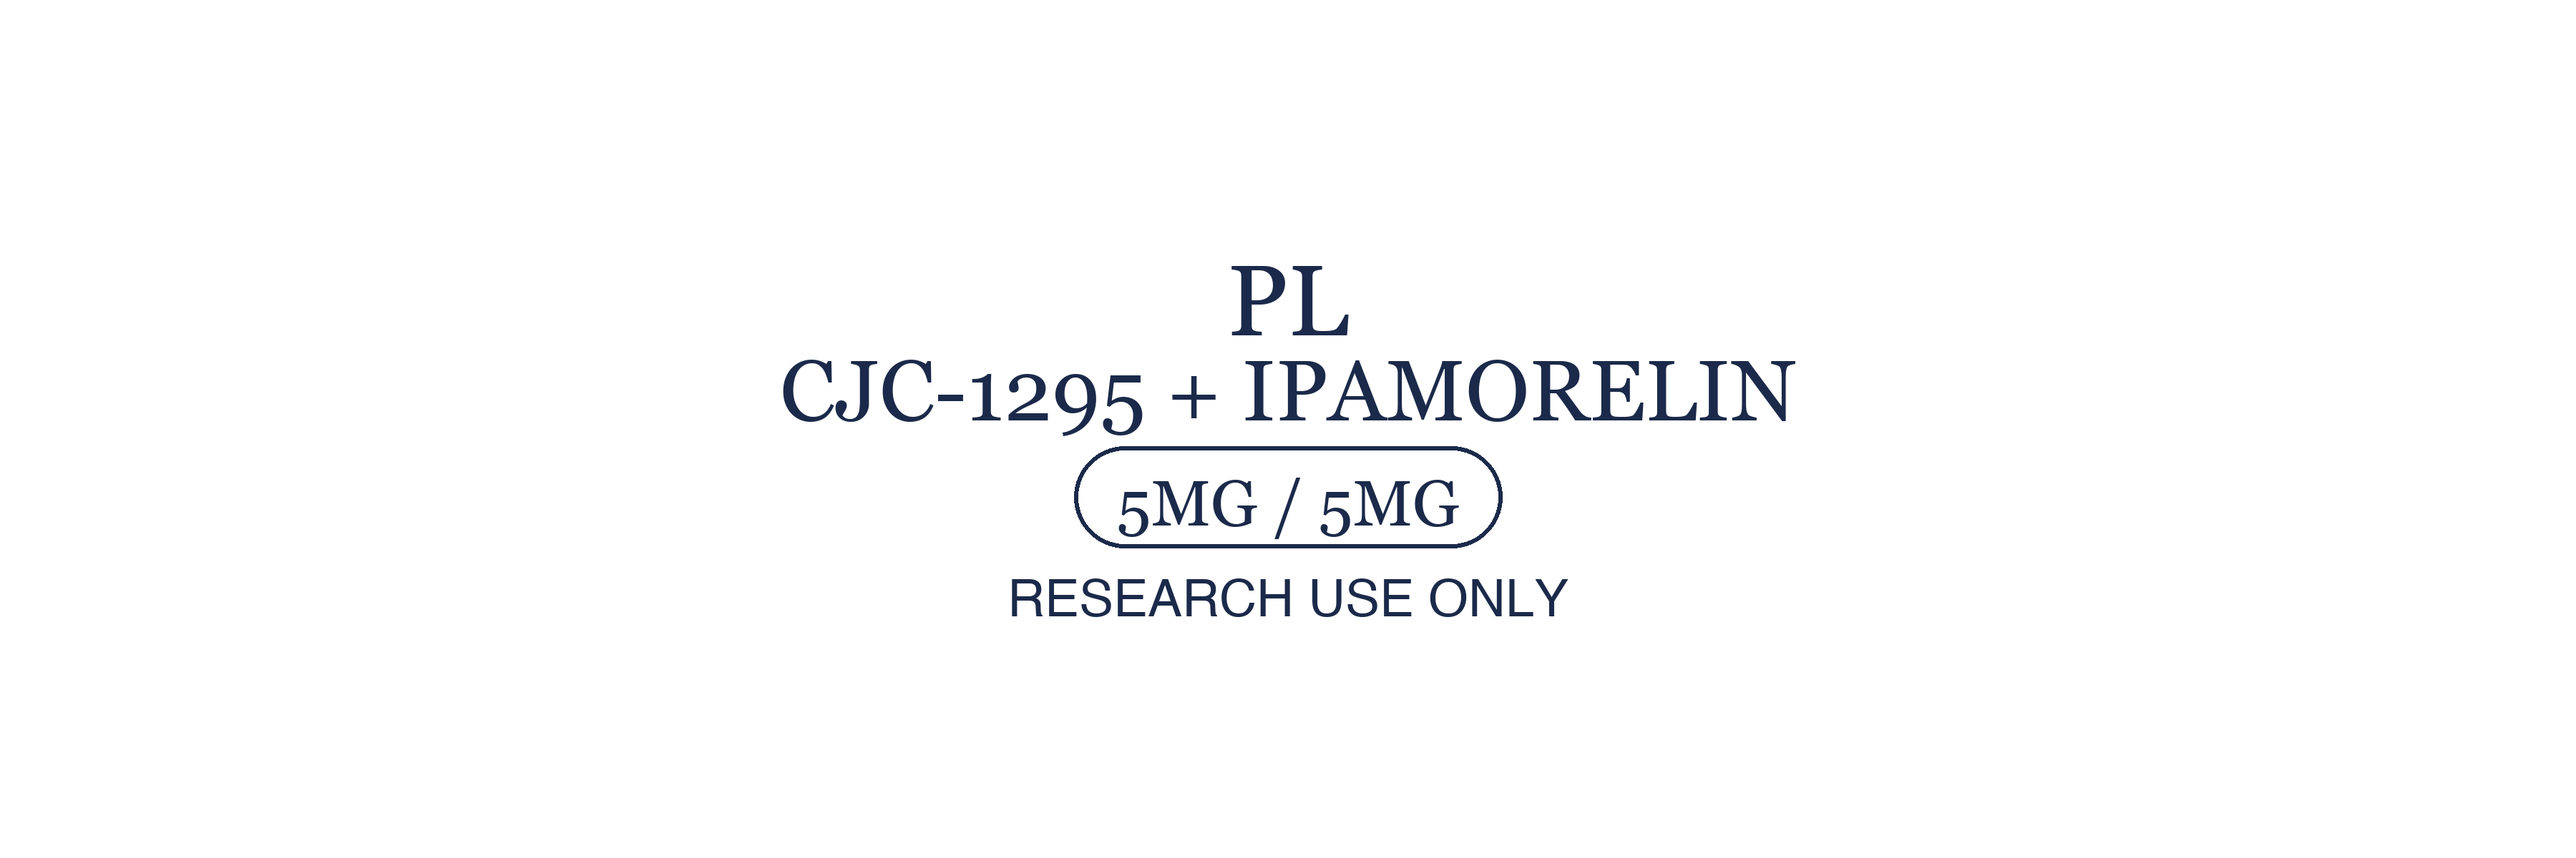
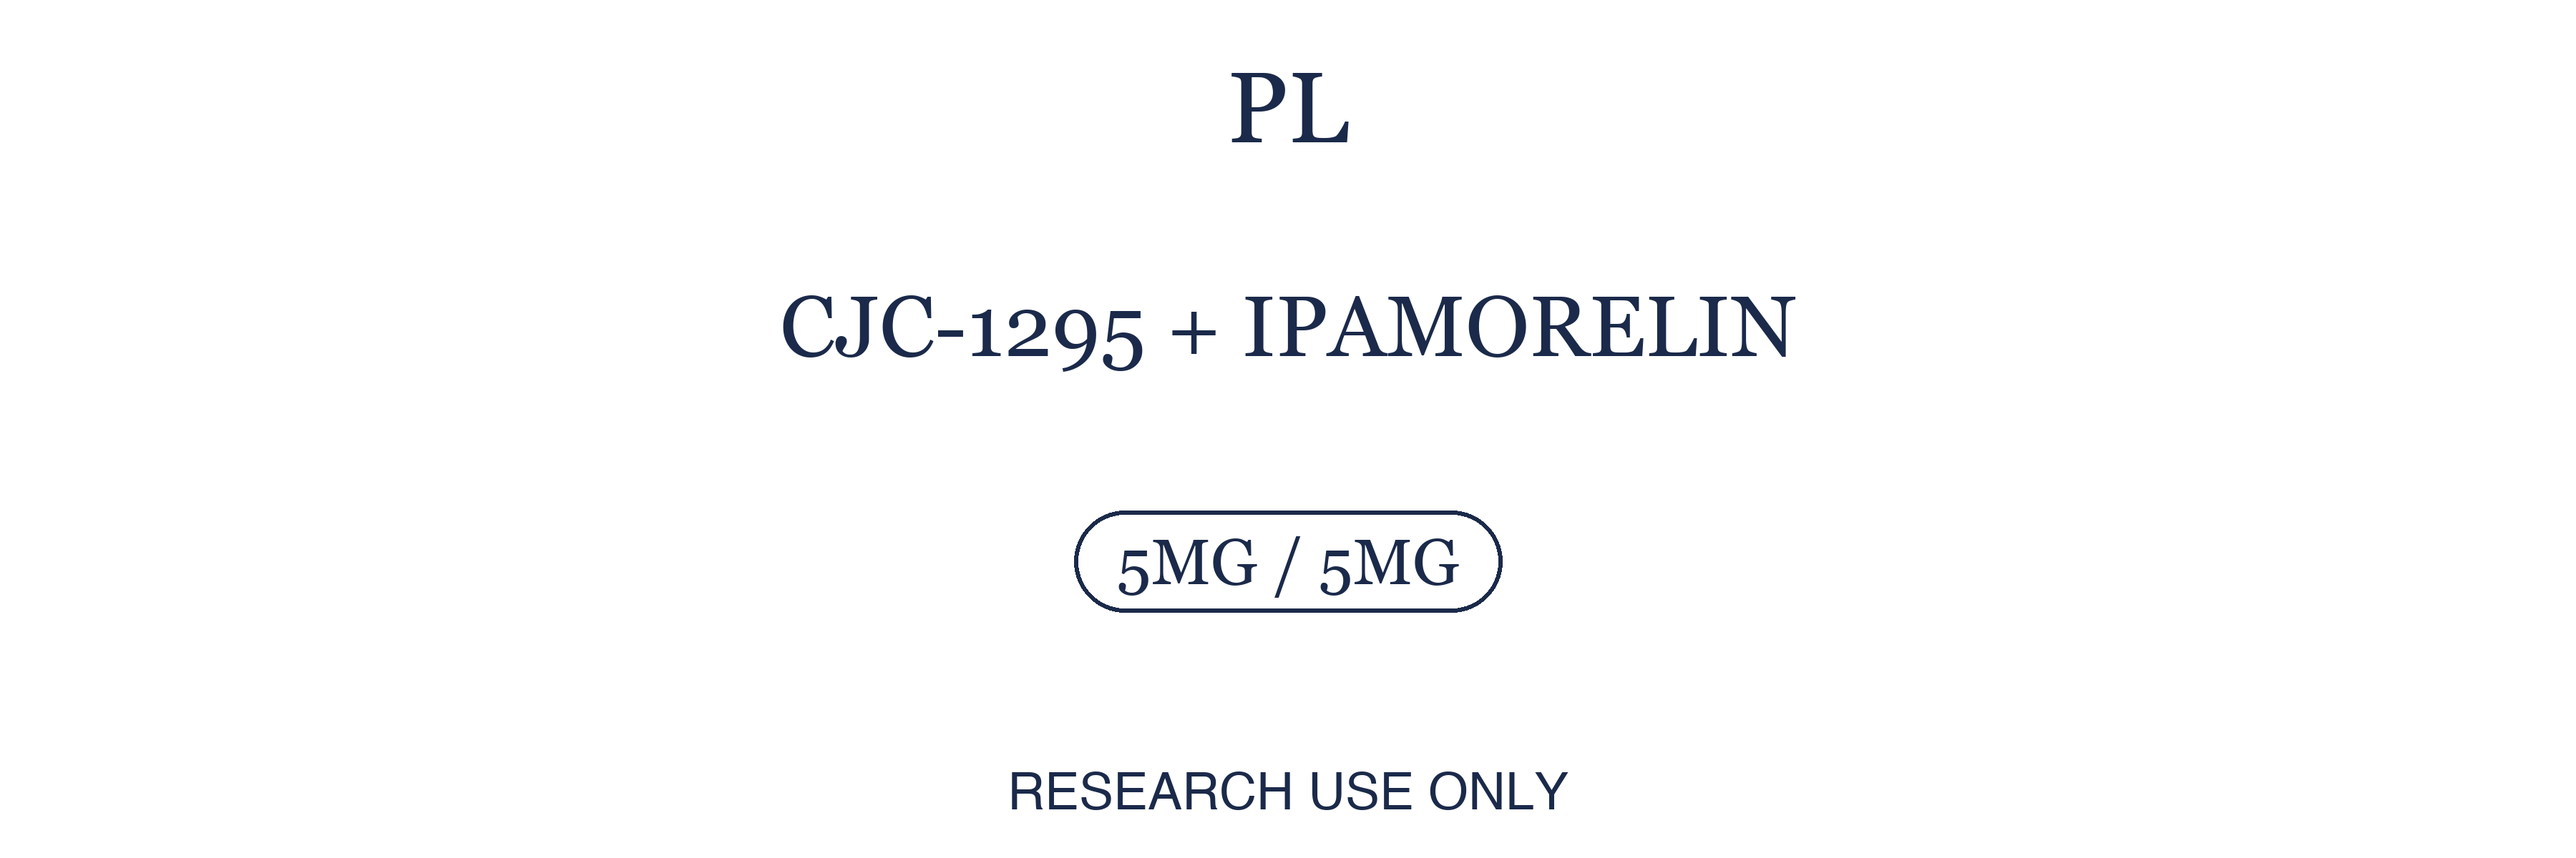
fix: center dosage text in pill oval for all vial labels

diff --git a/scripts/generate-labels.py b/scripts/generate-labels.py
@@ -64,7 +64,7 @@ def draw_label(filename, product_name, dosage):
     tag_bbox = draw.textbbox((0, 0), tag_text, font=font_tag)
     tag_h = tag_bbox[3] - tag_bbox[1]
 
-    gap = 40
+    gap = 220
     pill_pad_x = 60
     pill_pad_y = 28
 
@@ -95,7 +95,10 @@ def draw_label(filename, product_name, dosage):
     pill_y1 = y + dh + pill_pad_y * 2
     radius = (pill_y1 - pill_y0) // 2
     draw.rounded_rectangle([pill_x0, pill_y0, pill_x1, pill_y1], radius=radius, outline=NAVY, width=6)
-    draw.text(((W - dw) // 2, y + pill_pad_y), dosage, fill=NAVY, font=font_dosage)
+    # True center of pill, draw text anchored at its midpoint
+    pill_center_x = W // 2
+    pill_center_y = (pill_y0 + pill_y1) // 2
+    draw.text((pill_center_x, pill_center_y), dosage, fill=NAVY, font=font_dosage, anchor="mm")
     y = pill_y1 + gap
 
     # 4. Research use only
